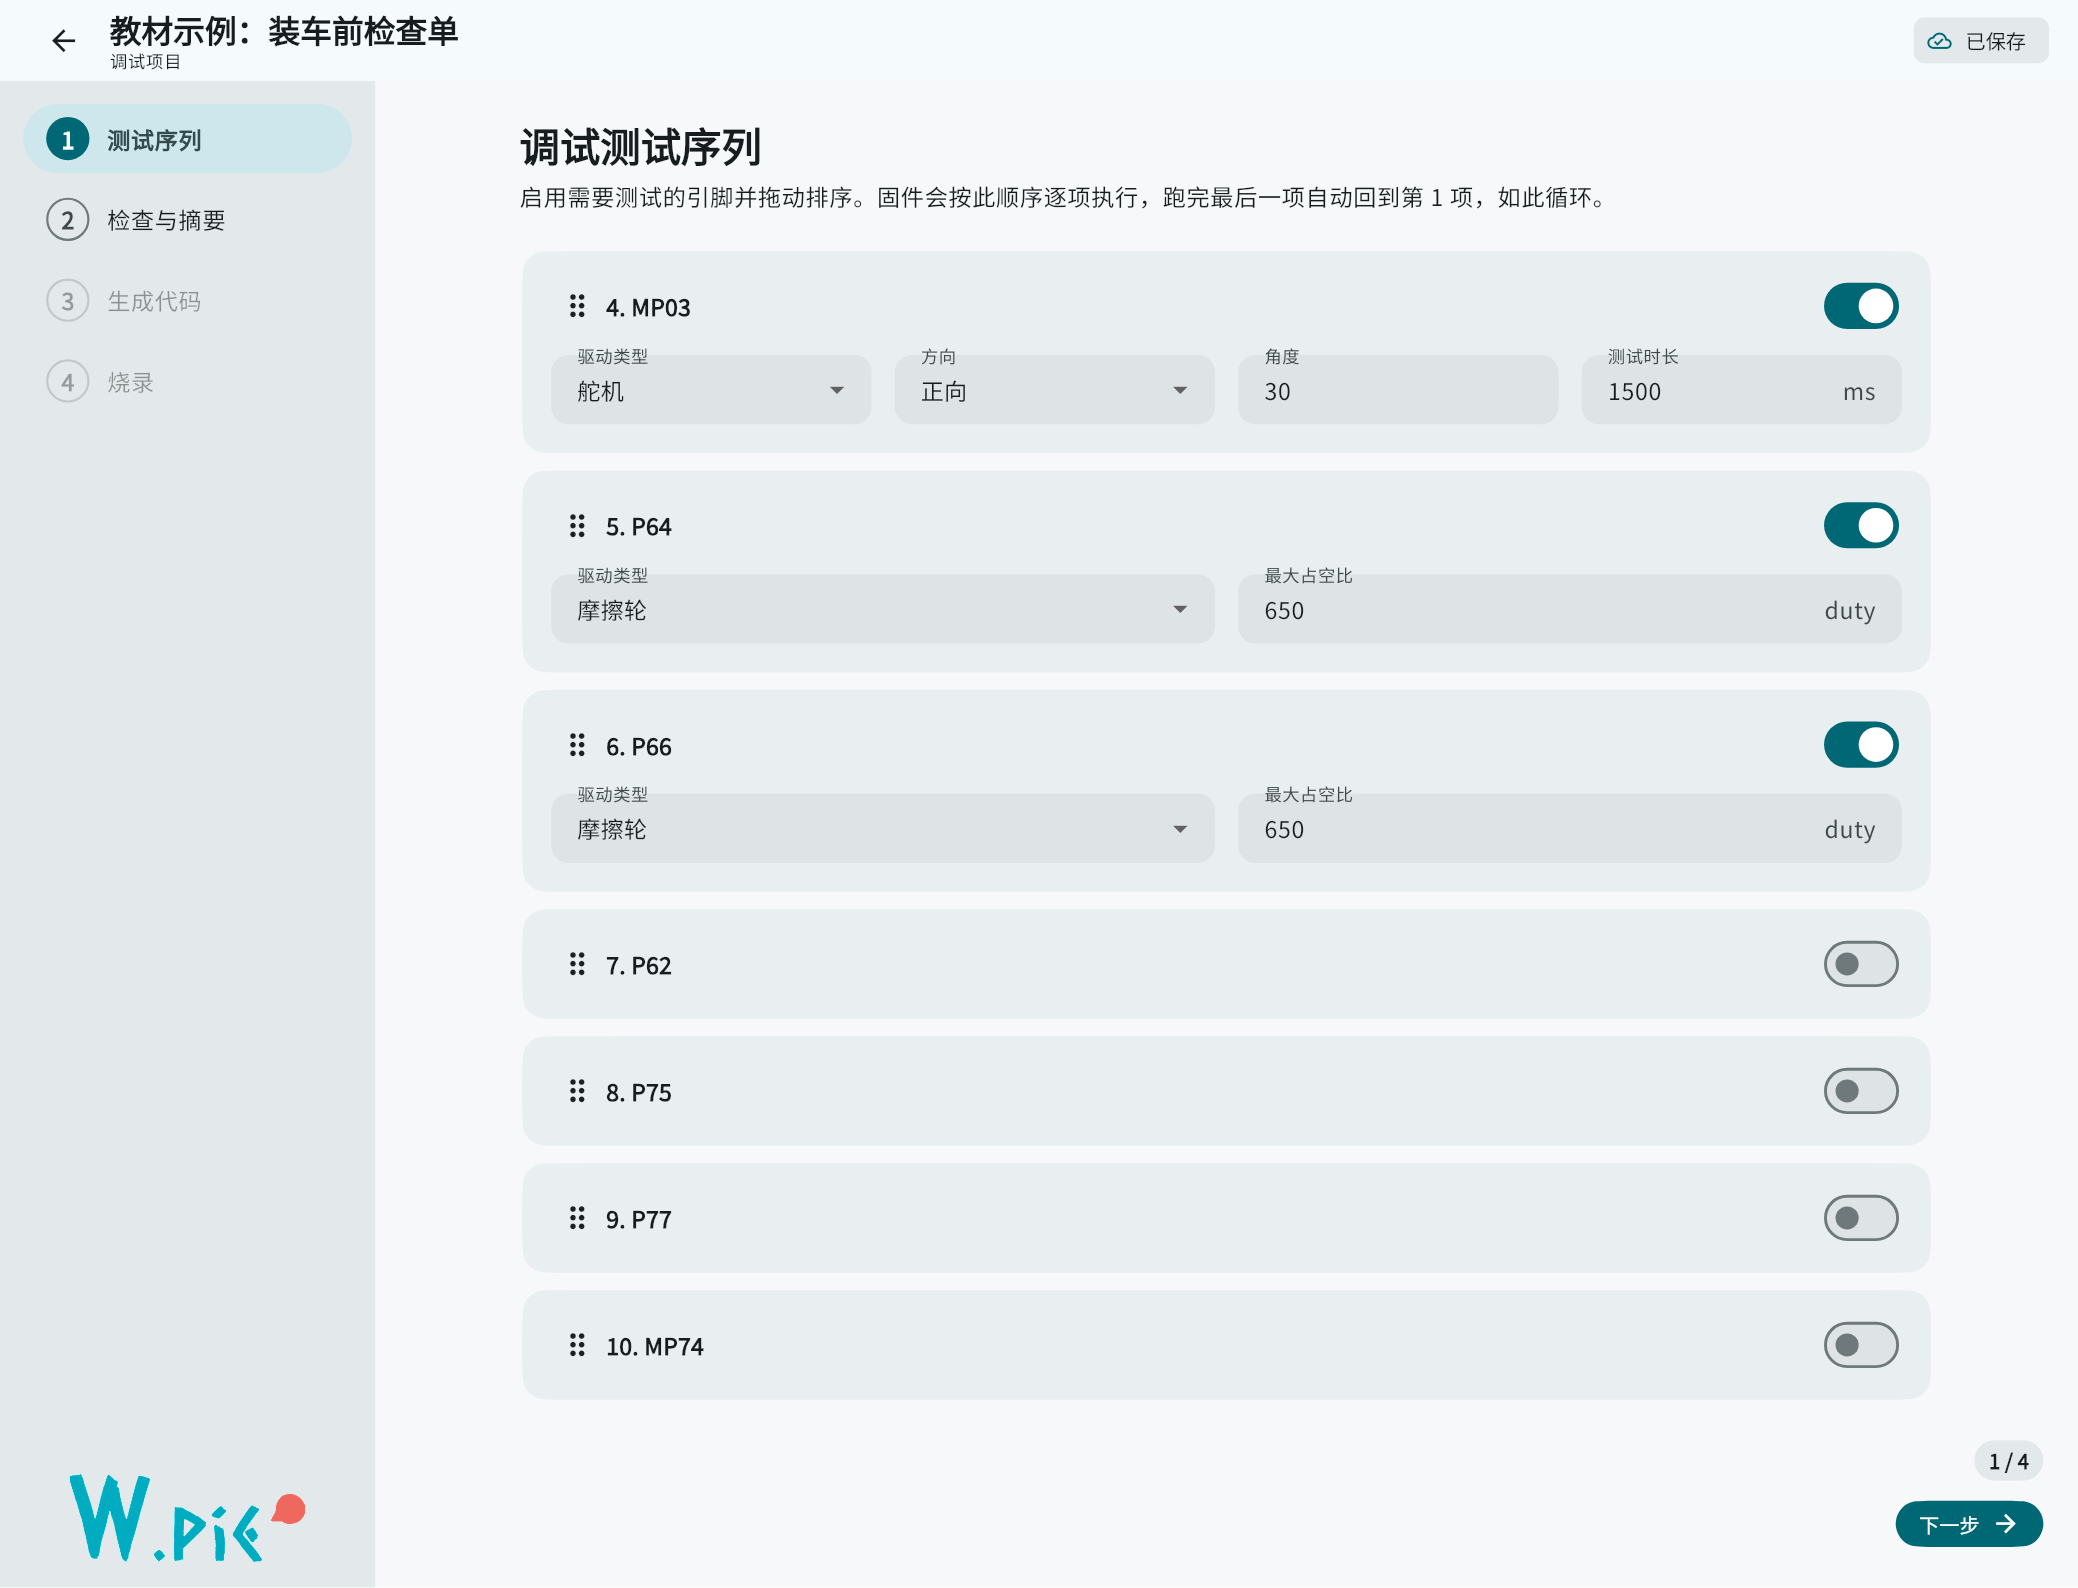
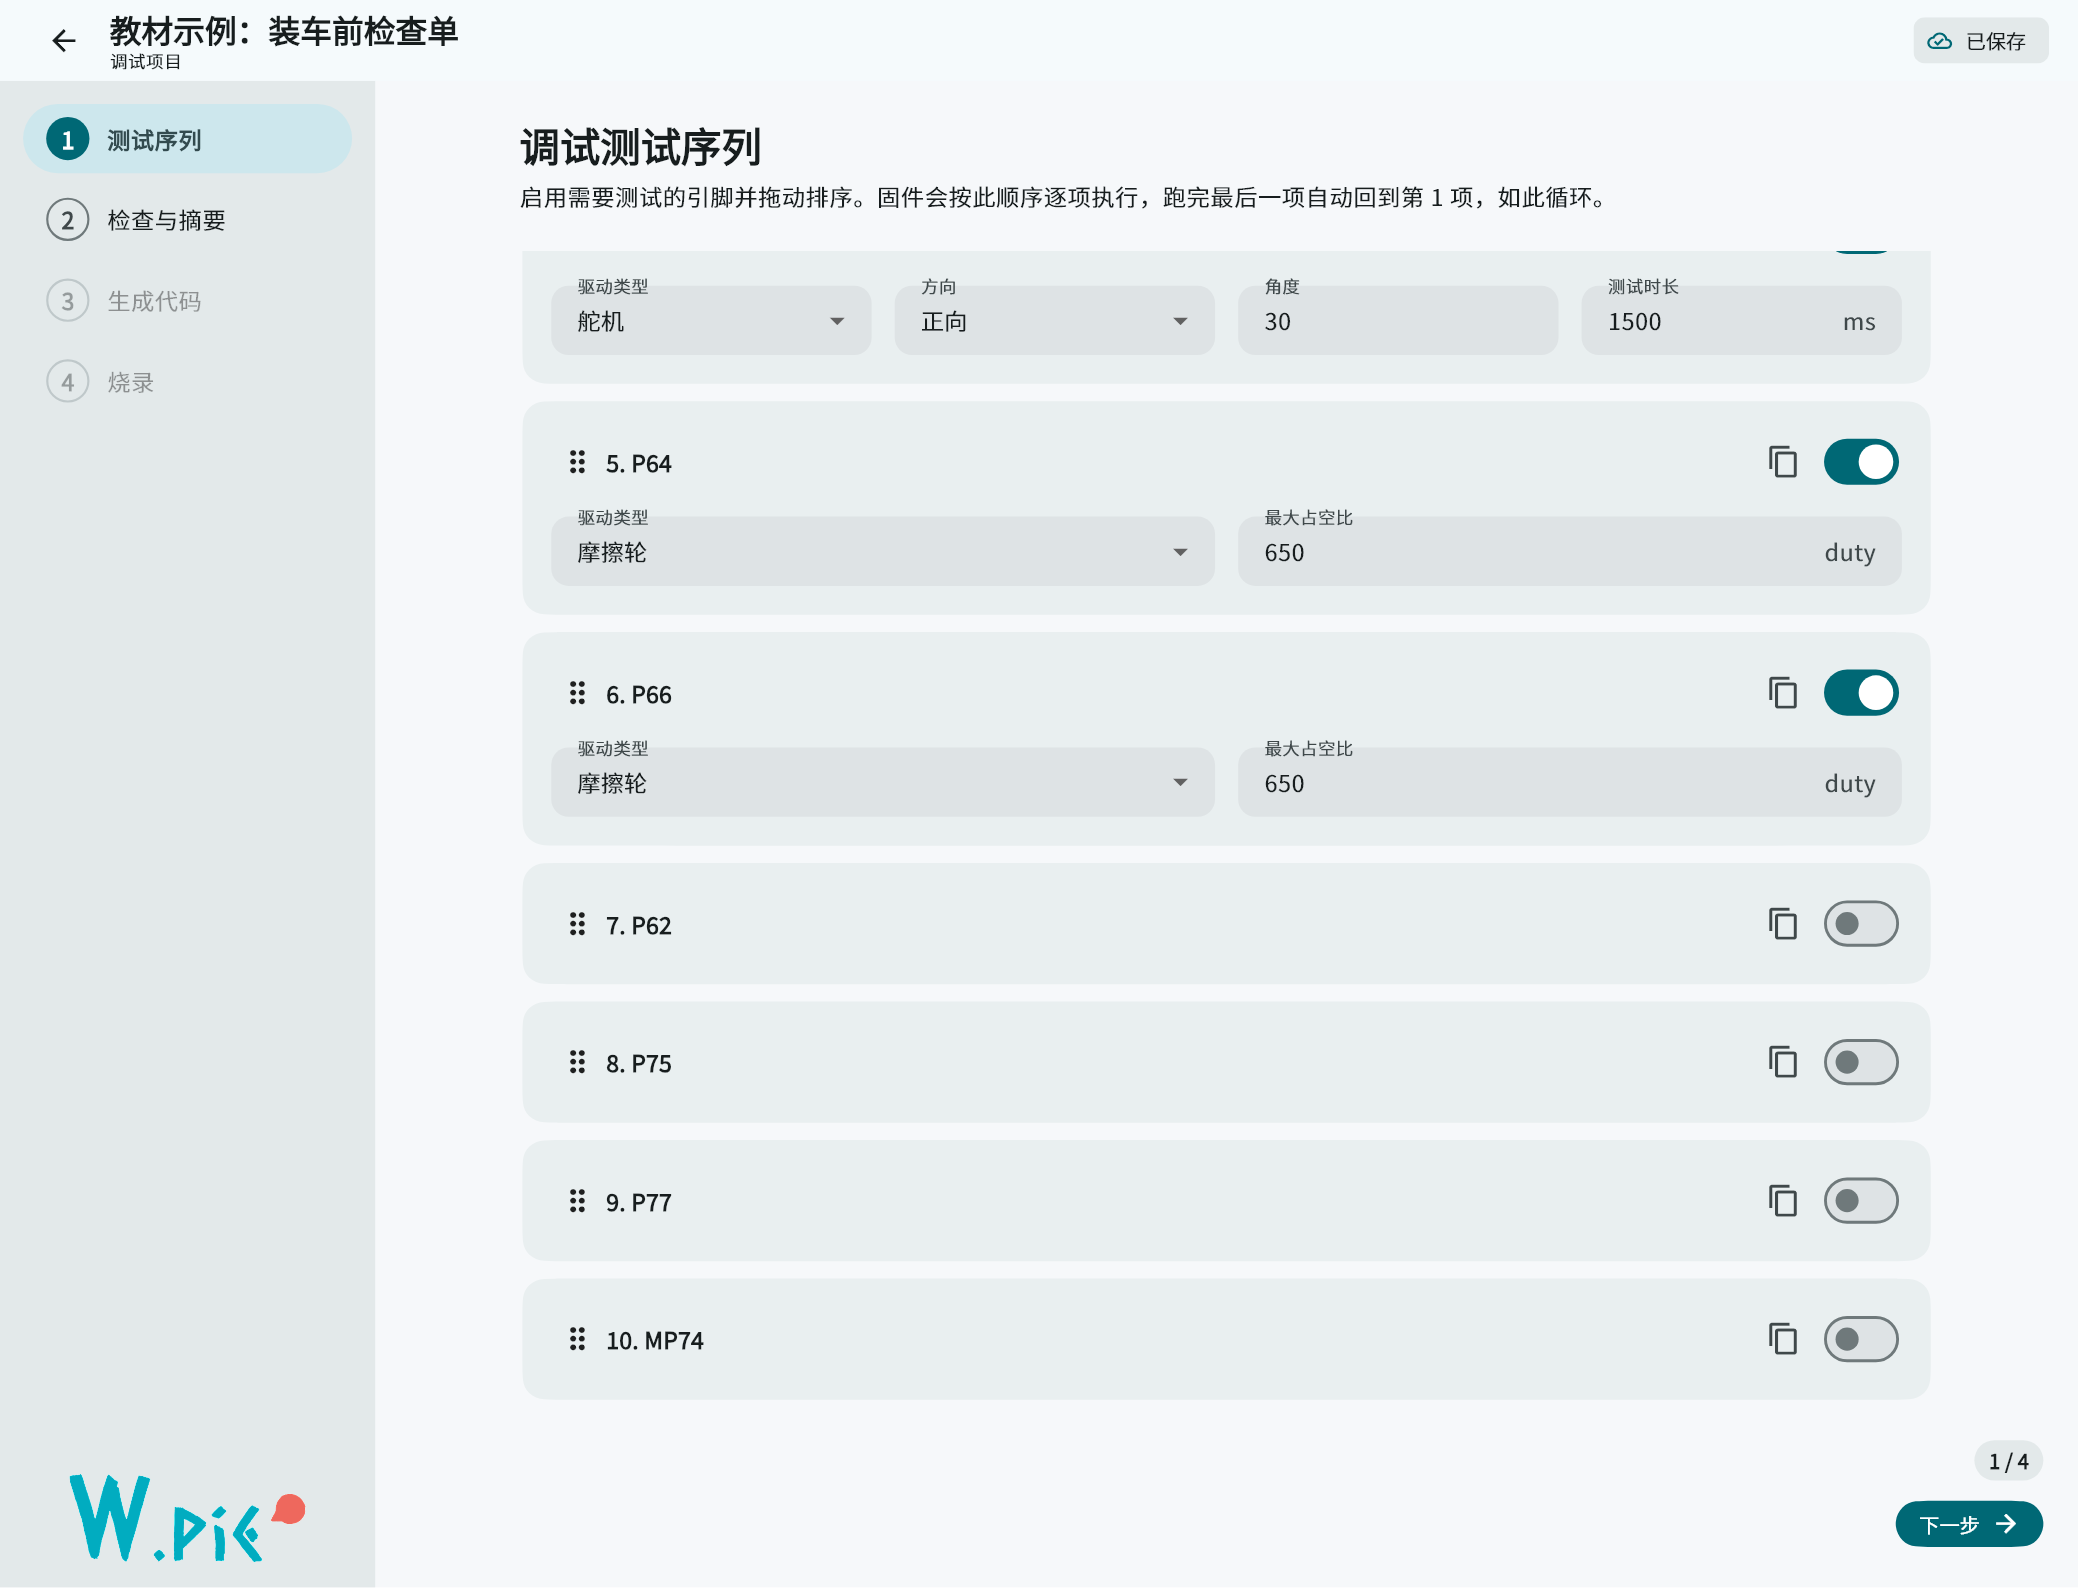
docs(book): 同步调试序列复制说明与截图
补充同引脚多条测试的用法与超过十项时提示音复用的说明，重生成第 6 章测试序列截图。

diff --git a/docs/design/调试模式提示音方案.md b/docs/design/调试模式提示音方案.md
@@ -6,7 +6,7 @@
 
 ## 1. 现状与问题
 
-调试工程按 `tests` 顺序逐项执行（每个启用的引脚一个测试项，默认 3s，项间间隔 1s，最多 10 项），跑完最后一项回到第 1 项循环。改造前提示音：
+调试工程按 `tests` 顺序逐项执行（每个启用的测试项一条，默认 3s，项间间隔 1s；同一引脚可复制多条测试，项数可超过 10），跑完最后一项回到第 1 项循环。改造前提示音：
 
 | 时机 | 旧实现 | 听感 |
 | --- | --- | --- |
@@ -73,6 +73,8 @@
 
 **音数上限 5**：人类可靠计数约 4–5（subitizing + 瞬时计数）。超过 5 用八度"进一位"，即电话区号式编码；若将来超过 10 步，再加一个音区（如 4186Hz）即可扩展到 15 步。
 
+> 当前实现只有两个音区。调试序列允许复制同一引脚后超过 10 项，此时第 11 项起复用高音区并按 5 项循环（11 与 6、12 与 7……同音型），界面以序号区分；若需要唯一编码，需先增加第三音区。
+
 ### 3.2 为什么没有结束音
 
 早期版本在动作之后再播一段「同一音型跳过落音后倒序」的回落乐句，当作"这一项做完了"的收尾。它已被整体删除：
@@ -90,7 +92,7 @@
 
 ### 3.5 视觉冗余（本次未做，有明确理由）
 
-共享运行时的 `LedShow()` 只有 3 位（P3^5/6/7），可表示 0–7，而调试序列最多 10 项——步 8/9/10 会回绕成 0/1/2，**恰好在最需要区分的区间引入歧义**，因此本次不纳入。若日后要做，应先增加显示位数（如改用 4 位或双位闪烁），而不是直接复用 `LedShow(step & 0x07)`。
+共享运行时的 `LedShow()` 只有 3 位（P3^5/6/7），可表示 0–7，而调试序列默认 10 项、复制后可更多——步 8/9/10 会回绕成 0/1/2，**恰好在最需要区分的区间引入歧义**，因此本次不纳入。若日后要做，应先增加显示位数（如改用 4 位或双位闪烁），而不是直接复用 `LedShow(step & 0x07)`。
 
 替代方案是把辨识负担放在文案上，但文案只在真正需要它的地方出现：调试页顶部原先的三条说明 banner 已按用户要求全部删除（摩擦轮激活/斜坡说明、提示音口诀、满油上限说明），试听面板的说明段与那行提示文案也删了——面板现在只剩标题「提示音试听」和一排按钮，口诀完全由按钮标签表达：「第 N 项 / 低·高音区 · 上行 N 声」。
 
